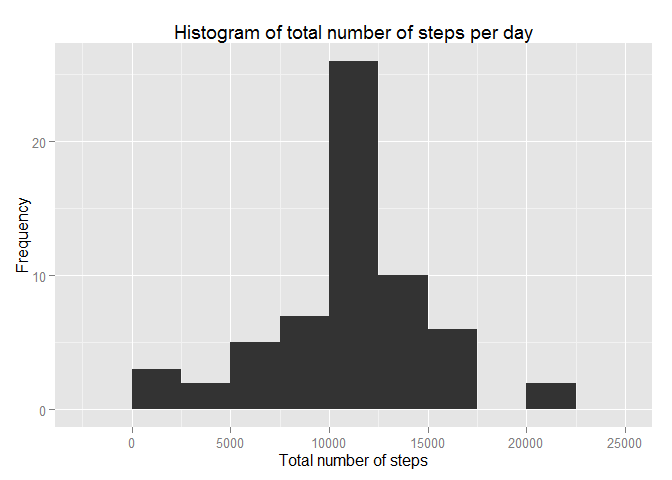
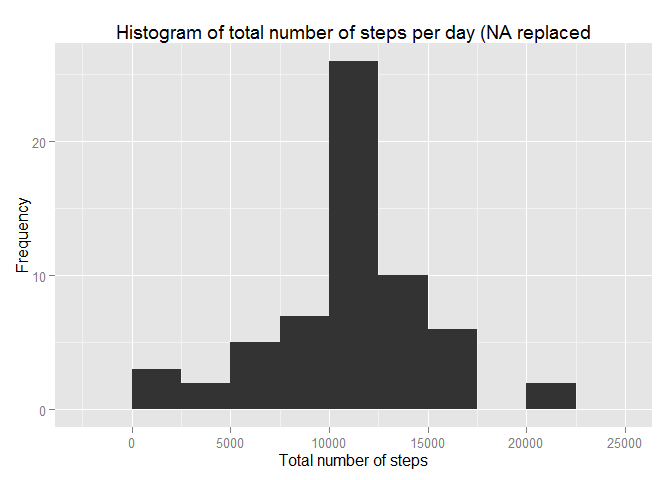
Fix typos and chart headings

Changed region(s): [[0.1562, 0.0312, 0.875, 0.0938]]

diff --git a/PA1_template.html b/PA1_template.html
@@ -71,7 +71,7 @@ img {
 </ol>
 <p>Load the data using the read.csv() command. We can already assign the column types here.</p>
 <pre class="r"><code>data = read.csv(file = './activity/activity.csv', colClasses = c(&quot;integer&quot;,&quot;Date&quot;,&quot;numeric&quot;))</code></pre>
-<p>Load required packages for analysis as well.</p>
+<p>Load required packages.</p>
 <pre class="r"><code>library(dplyr)</code></pre>
 <pre><code>## 
 ## Attaching package: 'dplyr'
@@ -97,8 +97,8 @@ dfTotalNumberOfSteps = data %&gt;% group_by(date) %&gt;% summarise(total = sum(s
 <li>Make a histogram of the total number of steps taken each day</li>
 </ol>
 <pre class="r"><code>## Use ggplot to render histogram
-ggplot(dfTotalNumberOfSteps, aes(total)) + geom_histogram(binwidth=2500) + labs(x=&quot;Total number of steps&quot;, y = &quot;Frequency&quot;, title=&quot;Histogram of total number of steps per day&quot;)</code></pre>
[1 lines of base64/hex data omitted]
+ggplot(dfTotalNumberOfSteps, aes(total)) + geom_histogram(binwidth=2500) + labs(x=&quot;Total number of steps&quot;, y = &quot;Frequency&quot;, title=&quot;Histogram of total number of steps per day (NA removed)&quot;)</code></pre>
[1 lines of base64/hex data omitted]
 <ol start="3" style="list-style-type: decimal">
 <li>Calculate and report the mean and median of the total number of steps taken per day</li>
 </ol>
@@ -116,7 +116,7 @@ ggplot(dfTotalNumberOfSteps, aes(total)) + geom_histogram(binwidth=2500) + labs(
 <pre class="r"><code>## Aggregate steps by interval and use mean as list calulation
 dfAverageDailyActivity = aggregate(steps ~ interval, data = data, FUN = &quot;mean&quot;, na.rm = TRUE)
 
-# Uae ggplot to render line chart
+# Use ggplot to render line chart
 ggplot(dfAverageDailyActivity, aes(interval, steps)) + geom_line() + labs(x=&quot;Interval&quot;, y = &quot;Steps&quot;, title=&quot;Average steps by interval&quot;)</code></pre>
[1 lines of base64/hex data omitted]
 <ol start="2" style="list-style-type: decimal">
@@ -163,8 +163,8 @@ dfTotalNumberOfStepsCorrected = dfReplacedData %&gt;% group_by(date) %&gt;% summ
 <li>Make a histogram of the total number of steps taken each day and Calculate and report the mean and median total number of steps taken per day. Do these values differ from the estimates from the first part of the assignment? What is the impact of imputing missing data on the estimates of the total daily number of steps?</li>
 </ol>
 <pre class="r"><code>## Use ggplot to render histogram
-ggplot(dfTotalNumberOfStepsCorrected, aes(total)) + geom_histogram(binwidth=2500) + labs(x=&quot;Total number of steps&quot;, y = &quot;Frequency&quot;, title=&quot;Histogram of total number of steps per day&quot;)</code></pre>
[1 lines of base64/hex data omitted]
+ggplot(dfTotalNumberOfStepsCorrected, aes(total)) + geom_histogram(binwidth=2500) + labs(x=&quot;Total number of steps&quot;, y = &quot;Frequency&quot;, title=&quot;Histogram of total number of steps per day (NA replaced&quot;)</code></pre>
[1 lines of base64/hex data omitted]
 <pre class="r"><code>mean(dfTotalNumberOfStepsCorrected$total)</code></pre>
 <pre><code>## [1] 10766.19</code></pre>
 <pre class="r"><code>median(dfTotalNumberOfStepsCorrected$total)</code></pre>

diff --git a/PA1_template.md b/PA1_template.md
@@ -13,7 +13,7 @@ data = read.csv(file = './activity/activity.csv', colClasses = c("integer","Date
 ```
 
 
-Load required packages for analysis as well.
+Load required packages.
 
 
 ```r
@@ -55,7 +55,7 @@ dfTotalNumberOfSteps = data %>% group_by(date) %>% summarise(total = sum(steps, 
 
 ```r
 ## Use ggplot to render histogram
-ggplot(dfTotalNumberOfSteps, aes(total)) + geom_histogram(binwidth=2500) + labs(x="Total number of steps", y = "Frequency", title="Histogram of total number of steps per day")
+ggplot(dfTotalNumberOfSteps, aes(total)) + geom_histogram(binwidth=2500) + labs(x="Total number of steps", y = "Frequency", title="Histogram of total number of steps per day (NA removed)")
 ```
 
 ![](PA1_template_files/figure-html/unnamed-chunk-4-1.png) 
@@ -90,7 +90,7 @@ For the average daily activity pattern, we can use the aggregate() function to a
 ## Aggregate steps by interval and use mean as list calulation
 dfAverageDailyActivity = aggregate(steps ~ interval, data = data, FUN = "mean", na.rm = TRUE)
 
-# Uae ggplot to render line chart
+# Use ggplot to render line chart
 ggplot(dfAverageDailyActivity, aes(interval, steps)) + geom_line() + labs(x="Interval", y = "Steps", title="Average steps by interval")
 ```
 
@@ -156,7 +156,7 @@ dfTotalNumberOfStepsCorrected = dfReplacedData %>% group_by(date) %>% summarise(
 
 ```r
 ## Use ggplot to render histogram
-ggplot(dfTotalNumberOfStepsCorrected, aes(total)) + geom_histogram(binwidth=2500) + labs(x="Total number of steps", y = "Frequency", title="Histogram of total number of steps per day")
+ggplot(dfTotalNumberOfStepsCorrected, aes(total)) + geom_histogram(binwidth=2500) + labs(x="Total number of steps", y = "Frequency", title="Histogram of total number of steps per day (NA replaced")
 ```
 
 ![](PA1_template_files/figure-html/unnamed-chunk-10-1.png) 
